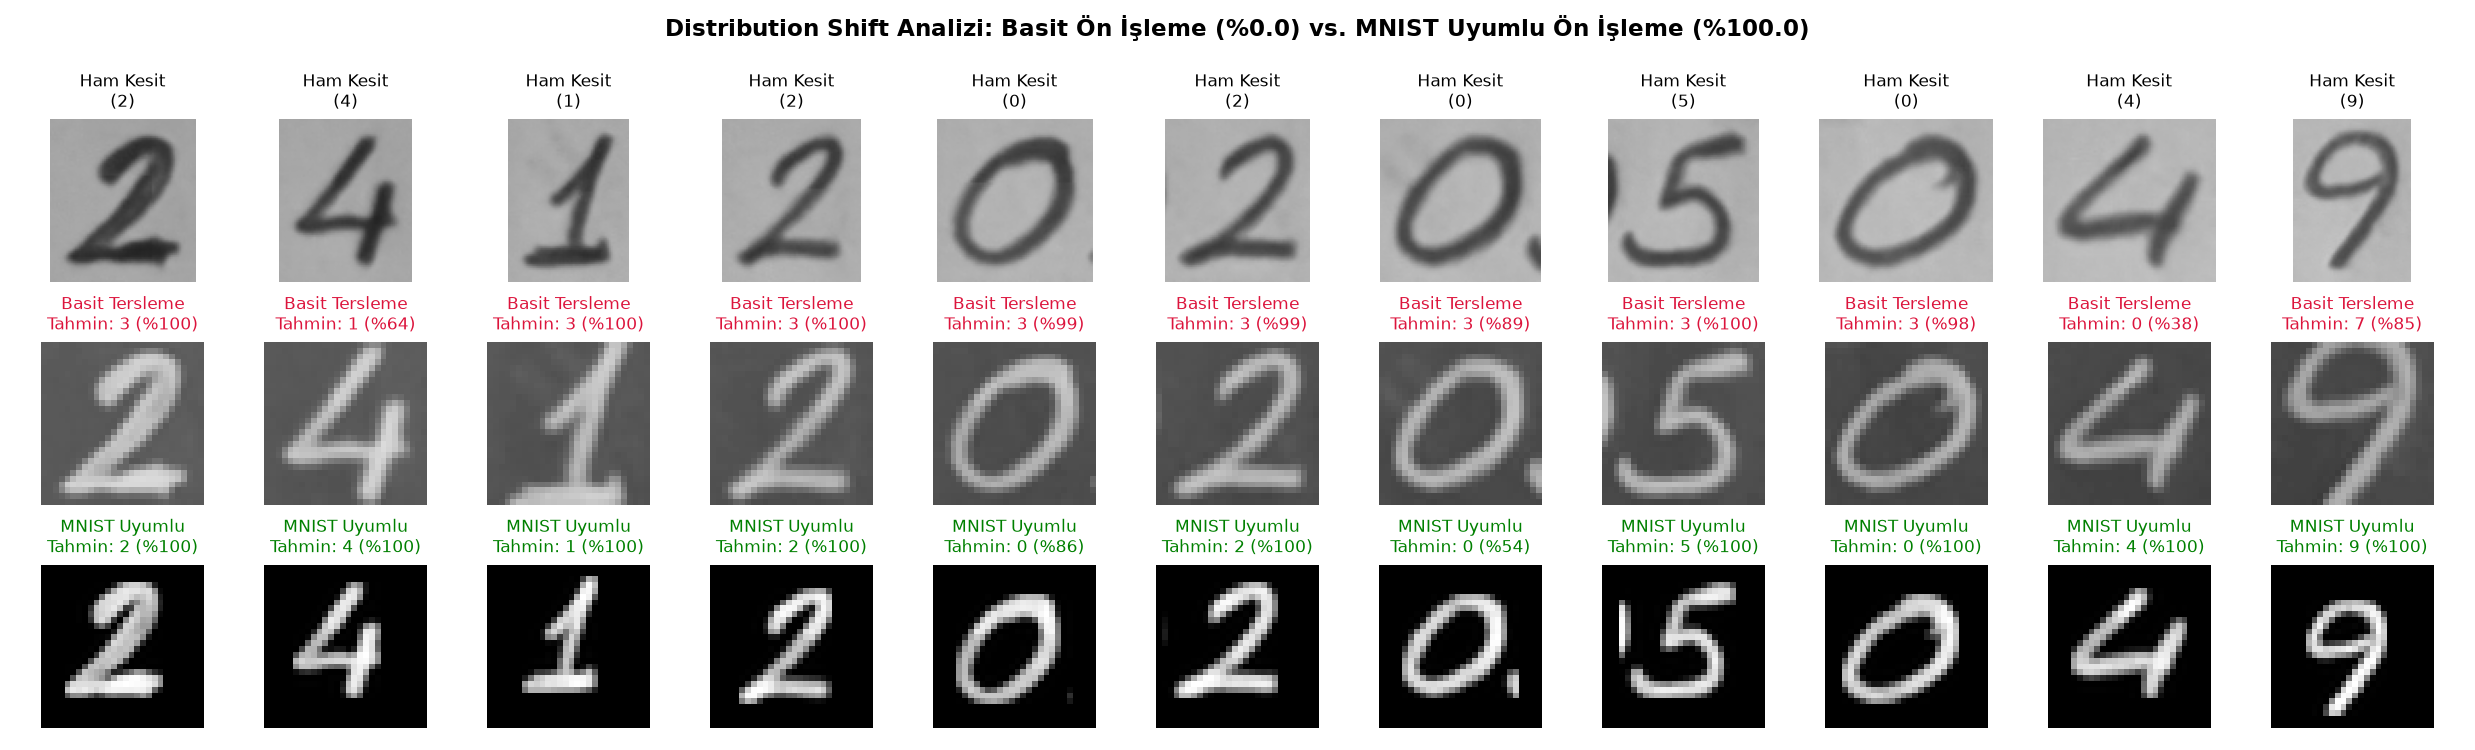
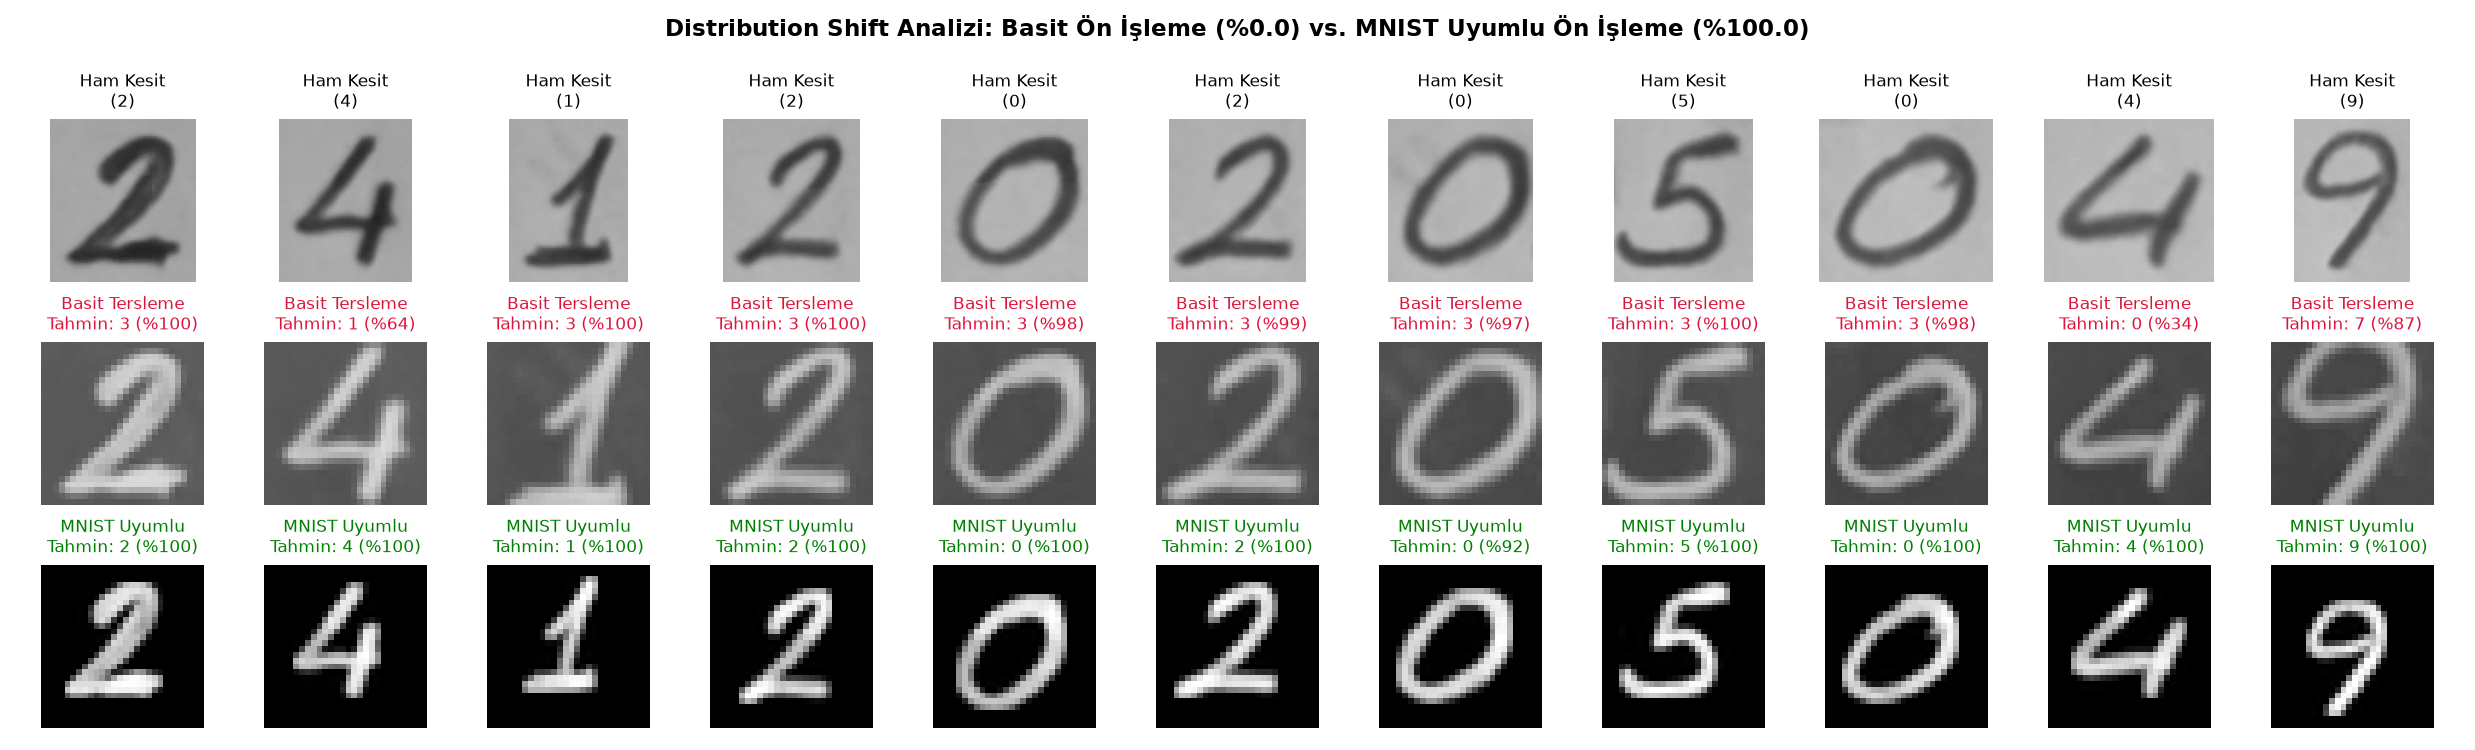
Complete MNIST MLP experiments, student number evaluation, and report

diff --git a/README.md b/README.md
@@ -1,39 +1,174 @@
-# pytorch-mnist-mlp
+# MNIST Veri Seti ile MLP Tabanlı El Yazısı Rakam Tanıma
 
-Bu proje, **CNN kullanmadan** PyTorch ile MNIST üzerinde sıfırdan eğitilen bir **MLP** çözümüdür.
-Ödev gereksinimlerine uygun olarak train/validation/test ayrımı, epoch bazlı metrik takibi, grafik üretimi, hiperparametre karşılaştırması ve kendi el yazısı görselleri ile tahmin akışı içerir.
+Bu proje, **CNN (Evrişimli Sinir Ağı) veya hazır eğitilmiş (pretrained) model kullanmadan**, yalnızca **Multi-Layer Perceptron (MLP)** mimarisiyle PyTorch kullanılarak MNIST veri seti üzerinde sıfırdan eğitilen el yazısı rakam tanıma sistemini, hiperparametre karşılaştırma deneylerini ve gerçek el yazısı öğrenci numarası (`24120205049`) üzerindeki değerlendirme sonuçlarını içerir.
 
-## 1) Kurulum
+---
+
+## 1. Veri Seti ve Veri Bölme (Train / Validation / Test Ayrımı)
+
+Deneylerde standart **MNIST** el yazısı rakam veri seti kullanılmıştır (`28 × 28` piksel, tek kanallı gri seviyeli, `0–9` arası 10 sınıf).
+
+* **Eğitim (Train) Kümesi:** `54.000` görüntü (`train=True` kümesinin `%90`'ı, `seed=42` ile sabitlenmiş rastgele ayrım)
+* **Doğrulama (Validation) Kümesi:** `6.000` görüntü (`train=True` kümesinin `%10`'u, `val_split=0.1`)
+* **Test Kümesi:** `10.000` görüntü (`train=False` resmi MNIST test ayrımı)
+* **Normalizasyon:** Tüm görüntüler `[0, 1]` aralığına ölçeklendikten sonra MNIST istatistikleri olan `mean = 0.1307`, `std = 0.3081` ile normalize edilmiştir.
+* **Veri Sızıntısının Önlenmesi:** Test veri kümesi eğitim veya hiperparametre seçimi aşamalarında kesinlikle kullanılmamış; yalnızca eğitim tamamlandıktan sonra nihai performansı ölçmek için değerlendirilmiştir (`mnist_mlp/data.py` ve `mnist_mlp/train.py`).
+
+---
+
+## 2. Deney 1 – Temel MLP Modeli (`adam_baseline`)
+
+### 2.1. Mimari ve Hiperparametre Yapılandırması
+
+Temel model (`mnist_mlp/model.py` içindeki `MLPClassifier`), `28 × 28 = 784` boyutlu düzleştirilmiş (flattened) piksel vektörünü girdi olarak alır ve en az 2 gizli katman şartını sağlayacak şekilde aşağıdaki mimariye sahiptir:
+
+```text
+Girdi (28×28 -> Flatten: 784)
+  ├─► Linear(784 -> 256) + ReLU   [1. Gizli Katman]
+  ├─► Linear(256 -> 128) + ReLU   [2. Gizli Katman]
+  └─► Linear(128 -> 10)           [Çıkış Katmanı (Logits)]
+```
+
+| Hiperparametre | Değer |
+| :--- | :--- |
+| **Girdi Boyutu** | `784` (`28 × 28` gri seviye) |
+| **Gizli Katmanlar (`hidden_sizes`)** | `[256, 128]` (2 gizli katman) |
+| **Aktivasyon Fonksiyonu** | `ReLU` |
+| **Kayıp (Loss) Fonksiyonu** | `CrossEntropyLoss` |
+| **Optimizer** | `Adam` |
+| **Öğrenme Oranı (`lr`)** | `0.001` (`1e-3`) |
+| **Batch Size** | `128` |
+| **Epoch Sayısı** | `5` |
+| **Validation Oranı (`val_split`)** | `0.10` (`54.000` Train / `6.000` Val / `10.000` Test) |
+| **Rastgelelik Tohumu (`seed`)** | `42` |
+
+### 2.2. Epoch Bazlı Eğitim ve Doğrulama Sonuçları
+
+| Epoch | Training Loss | Validation Loss | Training Accuracy | Validation Accuracy |
+| :---: | :---: | :---: | :---: | :---: |
+| **1** | `0.2900` | `0.1473` | `%91.42` | `%95.57` |
+| **2** | `0.1113` | `0.1151` | `%96.57` | `%96.60` |
+| **3** | `0.0754` | `0.1033` | `%97.66` | `%97.20` |
+| **4** | `0.0537` | `0.0837` | `%98.31` | `%97.30` |
+| **5** | **`0.0410`** | **`0.0917`** | **`%98.64`** | **`%97.45`** |
+
+* **Nihai Test Loss:** `0.0793`
+* **Nihai Test Accuracy:** **`%97.57`**
+* **Toplam Eğitim Süresi:** `17.22 saniye` (CPU)
+
+### 2.3. Eğitim Süreci Kayıp (Loss) ve Doğruluk (Accuracy) Grafikleri
+
+| Kayıp (Loss) Grafiği | Doğruluk (Accuracy) Grafiği |
+| :---: | :---: |
+| ![Temel Model Loss Grafiği](outputs/experiments/adam_baseline/loss_curve.png) | ![Temel Model Accuracy Grafiği](outputs/experiments/adam_baseline/accuracy_curve.png) |
+
+**Loss ve Accuracy Yorumu:**
+* İlk epoch'ta `Train Loss` (`0.2900`), epoch boyunca ağırlıklar henüz yakınsarken ölçüldüğü için epoch sonunda değerlendirilen `Validation Loss` (`0.1473`) değerinden daha yüksektir.
+* 2. epoch'tan itibaren model hızla yakınsamış; 5. epoch sonunda eğitim doğruluğu `%98.64`, doğrulama doğruluğu `%97.45` ve test doğruluğu **`%97.57`** seviyesine ulaşmıştır.
+* 4. ve 5. epoch arasında `Train Loss` düşmeye devam ederken (`0.0537 -> 0.0410`), `Validation Loss` değerinin `0.0837` civarında doyuma ulaşması, modelin 5 epoch sonunda yeterli kapasiteye ulaştığını ve daha uzun eğitimlerde hafif aşırı öğrenme (overfitting) eğiliminin başlayabileceğini göstermektedir.
+
+---
+
+## 3. Deney 2 – Model Yapılandırmalarının ve Hiperparametrelerin Karşılaştırılması
+
+Optimizer seçimi (`Adam` vs. `SGD`), gizli katman sayısı (`2` vs. `3` katman) ve gizli katman genişliklerinin (`[128, 64]`, `[256, 128]`, `[512, 256]`) model performansı ve eğitim süresi üzerindeki etkisini analiz etmek amacıyla 5 farklı MLP yapılandırması aynı veri ayrımı (`seed=42`, `epochs=5`, `batch_size=128`) ile sıfırdan eğitilmiştir:
+
+| Deney Adı | Gizli Katmanlar | Optimizer | LR | Train Loss | Val Loss | Train Acc | Val Acc | Test Loss | Test Acc | Süre (sn) |
+| :--- | :--- | :---: | :---: | :---: | :---: | :---: | :---: | :---: | :---: | :---: |
+| **`adam_baseline`** | `[256, 128]` | Adam | `0.001` | `0.0410` | **`0.0917`** | `%98.64` | `%97.45` | **`0.0793`** | **`%97.57`** | `17.22` |
+| **`adam_deeper_3layers`** | `[512, 256, 128]` | Adam | `0.001` | **`0.0367`** | `0.1012` | **`%98.74`** | **`%97.47`** | `0.0860` | `%97.41` | `18.54` |
+| **`adam_compact`** | `[128, 64]` | Adam | `0.001` | `0.0594` | `0.1072` | `%98.17` | `%96.98` | `0.1025` | `%97.10` | **`14.71`** |
+| **`sgd_baseline_arch`** | `[256, 128]` | SGD | `0.050` | `0.1065` | `0.1285` | `%96.91` | `%96.12` | `0.1103` | `%96.53` | `15.37` |
+| **`sgd_wider`** | `[512, 256]` | SGD | `0.050` | `0.0974` | `0.1189` | `%97.18` | `%96.37` | `0.1022` | `%96.73` | `18.64` |
+
+![Deneyler Arası Karşılaştırma Grafiği](outputs/experiments/comparison_curves.png)
+
+### Hiperparametre Analizi
+
+1. **Optimizer Etkisi (`Adam` vs. `SGD`):**
+   * Aynı `[256, 128]` mimarisinde `Adam (lr=0.001)` `%97.57` test doğruluğuna ulaşırken, `SGD (lr=0.05)` 5 epoch sonunda `%96.53` doğrulukta kalmıştır. Parametre başına uyarlanabilir (adaptive) öğrenme oranı ve momentum kullanan Adam, sabit adımlı SGD'ye kıyasla çok daha hızlı yakınsamaktadır.
+2. **Gizli Katman Genişliği (Kapasite) Etkisi (`[128, 64]` vs. `[256, 128]` vs. `[512, 256]`):**
+   * Katman genişliği `[128, 64]`'e düşürüldüğünde (`adam_compact`), eğitim süresi `14.71` saniyeye inmiş ancak temsil kapasitesi azaldığı için test doğruluğu `%97.57`'den `%97.10`'a gerilemiştir.
+   * SGD tarafında katmanları `[256, 128]`'den `[512, 256]`'ya genişletmek (`sgd_wider`) test doğruluğunu `%96.53`'ten `%96.73`'e yükseltmiştir.
+3. **Derinlik Etkisi (2 Gizli Katman vs. 3 Gizli Katman):**
+   * 3 gizli katmanlı `[512, 256, 128]` modeli (`adam_deeper_3layers`) en düşük eğitim kaybını (`0.0367`) ve en yüksek eğitim doğruluğunu (`%98.74`) elde etmesine rağmen, test doğruluğunda (`%97.41`) 2 gizli katmanlı `[256, 128]` modelinin (`%97.57`) hafif gerisinde kalmıştır. Bu durum, düzleştirilmiş 784 piksellik MNIST girdisi için `[256, 128]` kapasitesinin ideal genelleme dengesini kurduğunu göstermektedir.
+
+---
+
+## 4. Kendi El Yazısı Öğrenci Numarası (`24120205049`) ile Test ve Değerlendirme
+
+### 4.1. Orijinal El Yazısı Görseli
+
+Öğrenci numarası olan **`24120205049`** (11 hane), kağıt üzerine el yazısıyla yazılarak fotoğraflanmış ve `data/handwritten_digits/number.png` olarak kaydedilmiştir:
+
+![El Yazısı Öğrenci Numarası (24120205049)](data/handwritten_digits/number.png)
+
+### 4.2. Görüntülerin MNIST Formatına Hazırlanması (`mnist_mlp/handwriting.py`)
+
+Gerçek kamera görüntüsünü MNIST formatına (`28 × 28`, siyah zemin üzerine beyaz ve ortalanmış rakam) uyumlu hale getirmek için `mnist_mlp/handwriting.py` içerisinde aşağıdaki adımlar uygulanmıştır:
+
+1. **Bölümlendirme (Segmentation):** Fotoğraftaki 11 rakam soldan sağa doğru bağlı bileşen projeksiyonu ve komşu rakam orta-nokta sınırlaması ile ayrı ayrı kesitlere ayrılmıştır.
+2. **Gri Tonlama ve Arka Plan Bastırma:** Görüntüler tek kanallı gri seviyeye (`L`) dönüştürülmüştür. Kağıt rengi (`~168/255`) ve arka sayfadaki hafif yazı izlerini temizlemek için 75. yüzdelik dilim (percentile) tabanlı arka plan eşikleme uygulanarak kağıt zemini tam siyaha (`0`), mürekkep darbeleri ise parlak beyaza (`0–255`) dönüştürülmüştür.
+3. **Oran Koruyarak Boyutlandırma ve Kütle Merkezi Hizalaması (`28 × 28`):** Resmi MNIST veri seti oluşturma protokolüne birebir uygun olarak her rakamın sıkı sınırlayıcı kutusu (bounding box) bulunmuş, en-boy oranı korunarak `20 × 20` piksel kutuya sığdırılmış ve **kütle merkezi (center of mass)** `(13.5, 13.5)` koordinatına gelecek şekilde `28 × 28` siyah tuvale yerleştirilmiştir. Hazırlanan tüm `28 × 28` görüntüler `data/handwritten_digits/digits_28x28/` klasörüne kaydedilmiştir.
+4. **Normalizasyon:** `ToTensor()` sonrasında MNIST eğitim dağılımıyla aynı `mean=0.1307`, `std=0.3081` normalizasyonu uygulanmıştır.
+
+### 4.3. Öğrenci Numarası (`24120205049`) Tahmin Sonuçları
+
+Eğitilen temel MLP modeli (`adam_baseline`), hazırlanan 11 el yazısı rakamın **tamamını (`11/11`, `%100.0` doğruluk)** yüksek güven skorlarıyla doğru tahmin etmiştir:
+
+![Öğrenci Numarası Tahmin Sonuçları](outputs/handwriting/student_number_predictions.png)
+
+| Hane Sırası | 28×28 MNIST Görseli | Gerçek Rakam | Model Tahmini | Güven Skoru (Softmax) | Sonuç |
+| :---: | :---: | :---: | :---: | :---: | :---: |
+| **1** | ![2](data/handwritten_digits/digits_28x28/digit_01_2.png) | `2` | **`2`** | `%99.91` | Doğru |
+| **2** | ![4](data/handwritten_digits/digits_28x28/digit_02_4.png) | `4` | **`4`** | `%99.90` | Doğru |
+| **3** | ![1](data/handwritten_digits/digits_28x28/digit_03_1.png) | `1` | **`1`** | `%99.75` | Doğru |
+| **4** | ![2](data/handwritten_digits/digits_28x28/digit_04_2.png) | `2` | **`2`** | `%99.99` | Doğru |
+| **5** | ![0](data/handwritten_digits/digits_28x28/digit_05_0.png) | `0` | **`0`** | `%99.99` | Doğru |
+| **6** | ![2](data/handwritten_digits/digits_28x28/digit_06_2.png) | `2` | **`2`** | `%100.00` | Doğru |
+| **7** | ![0](data/handwritten_digits/digits_28x28/digit_07_0.png) | `0` | **`0`** | `%91.66` | Doğru |
+| **8** | ![5](data/handwritten_digits/digits_28x28/digit_08_5.png) | `5` | **`5`** | `%100.00` | Doğru |
+| **9** | ![0](data/handwritten_digits/digits_28x28/digit_09_0.png) | `0` | **`0`** | `%99.82` | Doğru |
+| **10** | ![4](data/handwritten_digits/digits_28x28/digit_10_4.png) | `4` | **`4`** | `%99.52` | Doğru |
+| **11** | ![9](data/handwritten_digits/digits_28x28/digit_11_9.png) | `9` | **`9`** | `%99.98` | Doğru |
+
+* **Beklenen Öğrenci Numarası:** `24120205049`
+* **Modelin Tahmin Ettiği Numara:** `24120205049`
+* **El Yazısı Öğrenci Numarası Doğruluğu:** **`11 / 11 (%100.0)`**
+
+---
+
+## 5. Genel Değerlendirme ve Distribution Shift (Dağılım Kayması) Analizi
+
+Bu ödevde eğitim verisi (MNIST) ile gerçek dünya verisi (cep telefonu kamerasıyla çekilen kağıt üzerindeki el yazısı) arasındaki **dağılım kayması (distribution shift)** doğrudan deneysel olarak gözlemlenmiştir:
+
+![Distribution Shift Karşılaştırması](outputs/handwriting/preprocessing_comparison.png)
+
+1. **Neden Ham Kamera Görüntülerinde Dağılım Kayması Oluşur?**
+   * **Arka Plan Farkı:** MNIST veri setinde arka plan pikselleri tam siyahtır (`0.0`). Oysa gerçek kağıt fotoğrafında kağıt yüzeyi gri tonlardadır (`~168/255`) ve arka sayfadaki baskı izleri görünmektedir. Görüntüye yalnızca basit renk tersleme (`255 - x`) uygulandığında arka plan `0` yerine `~87/255` değerinde parlak bir gürültü olarak kalır.
+   * **Uzamsal Duyarlılık (MLP Mimarisi):** CNN'lerden farklı olarak MLP mimarisi görüntüyü `784` elemanlı sabit bir vektöre düzleştirir (`Flatten`). İlk gizli katmandaki `Linear(784, 256)` ağırlıkları, eğitim sırasında kenar piksellerinin her zaman `0` (arka plan) olmasına ve rakamın kütle merkezinin `(13.5, 13.5)` noktasında bulunmasına şartlanmıştır.
+2. **Deneysel Kanıt (Basit Ön İşleme vs. MNIST Uyumlu Ön İşleme):**
+   * Arka plan bastırma ve kütle merkezi hizalaması yapılmadan yalnızca `28 × 28` boyutlandırma + basit renk tersleme uygulandığında (`Basit Tersleme` satırı), arka plandaki gri pikseller tüm nöronları sürekli aktive ederek modelin neredeyse tüm rakamları `3` olarak tahmin etmesine (`31333333307`, **`0/11 — %0.0` doğruluk**) yol açmıştır.
+   * Görüntüler arka plan eşikleme, `20 × 20` oran korumalı ölçekleme, `28 × 28` kütle merkezi ortalama ve MNIST normalizasyonu ile eğitim dağılımına hizalandığında (`MNIST Uyumlu` satırı), aynı MLP modelinin doğruluğu **`%0.0`'dan `%100.0`'a (`11/11`)** yükselmiştir.
+   * Bu sonuç, gerçek dünya verilerini bir derin öğrenme modeline uygularken **veri ön işleme (preprocessing) ve dağılım hizalamasının** en az model mimarisi kadar kritik olduğunu açıkça ortaya koymaktadır.
+
+---
+
+## 6. Kurulum ve Çalıştırma
+
+### 6.1. Ortam Kurulumu
 
 ```bash
 python -m venv .venv
+# Windows PowerShell:
+.\.venv\Scripts\Activate.ps1
+# Linux / macOS:
 source .venv/bin/activate
+
 pip install -r requirements.txt
 ```
 
-## 2) Reproducibility ve cihaz seçimi
-
-- Tohum (seed) parametresi varsayılan `42` olup `--seed` ile değiştirilebilir.
-- Cihaz seçimi otomatik yapılır: CUDA varsa `cuda`, yoksa `cpu`.
-
-## 3) Mimari
-
-- Model: `mnist_mlp.model.MLPClassifier`
-- Girdi: `28x28` görüntü (flatten: 784)
-- Hidden katmanlar: varsayılan `[256, 128]` (**en az iki hidden layer**)
-- Aktivasyon: `ReLU`
-- Çıkış: `10` sınıf (`0..9`)
-
-## 4) Veri bölme yöntemi
-
-- `train=True` MNIST seti train+validation için kullanılır.
-- Varsayılan `val_split=0.1` ile train/validation ayrımı yapılır.
-- `train=False` MNIST seti yalnızca test için kullanılır.
-- Test verisi eğitim/hiperparametre geliştirme sürecine dahil edilmez.
-
-## 5) Eğitim (sıfırdan)
-
-> Hazır eğitilmiş model kullanılmaz. Her çalıştırma sıfırdan eğitir.
+### 6.2. Temel MLP Modelini Sıfırdan Eğitme
 
 ```bash
 python -m mnist_mlp.train \
@@ -49,68 +184,33 @@ python -m mnist_mlp.train \
   --save-checkpoint
 ```
 
-### Eğitim çıktıları
-
-`outputs/run/` altında:
-- `training_summary.json`
-  - epoch bazlı `train_loss`, `train_accuracy`, `val_loss`, `val_accuracy`
-  - `training_time_seconds`
-  - `test_accuracy` ve `test_loss`
-- `loss_curve.png`
-- `accuracy_curve.png`
-- (opsiyonel) `checkpoint.pt`
-
-Not: `checkpoint.pt`, bu çalıştırmada sıfırdan eğitilen modelin ağırlıklarıdır; önceden eğitilmiş model değildir.
-
-## 6) Hiperparametre / yapılandırma karşılaştırması
-
-Varsayılan 2 deney:
-- `adam_baseline`
-- `sgd_wider`
-
-Çalıştırma:
+### 6.3. Hiperparametre Karşılaştırma Deneylerini Çalıştırma
 
 ```bash
-python -m mnist_mlp.experiments --epochs 3 --experiments-output-dir ./outputs/experiments
+python -m mnist_mlp.experiments \
+  --epochs 5 \
+  --save-checkpoint \
+  --experiments-output-dir ./outputs/experiments
 ```
 
-Sonuçlar:
-- `outputs/experiments/experiment_results.json`
-- Her deney klasöründe eğitim özeti ve grafikler
-
-İsterseniz JSON dosyası ile kendi deneylerinizi verin (`--experiments-json`).
-
-## 7) Kendi el yazısı görselleri ile tahmin akışı
-
-Gerçek kişiye ait örnek görseller bu repoya eklenmemiştir. Bunun yerine şablon klasör sağlanmıştır:
-
-- `data/handwritten_digits/README.md`
-
-Ön işleme akışı:
-- gri tonlama (`L`)
-- 28x28 yeniden boyutlandırma
-- MNIST'e uyumlu şekilde gerekirse renk tersleme (açık zemin/koyu rakam)
-- MNIST normalizasyonu (`mean=0.1307`, `std=0.3081`)
-
-Tahmin komutu:
+### 6.4. El Yazısı Öğrenci Numarasını (`24120205049`) Değerlendirme
 
 ```bash
+# Çok haneli öğrenci numarası fotoğrafını bölümlendirip 28x28 MNIST formatına dönüştürerek tahmin etme:
 python -m mnist_mlp.handwriting \
-  --checkpoint outputs/run/checkpoint.pt \
-  data/handwritten_digits/0.png data/handwritten_digits/1.png
+  --checkpoint ./outputs/experiments/adam_baseline/checkpoint.pt \
+  --student-number-image ./data/handwritten_digits/number.png \
+  --expected-number 24120205049 \
+  --output-dir ./outputs/handwriting
+
+# Tekil 28x28 rakam görselleri üzerinde tahmin yapma:
+python -m mnist_mlp.handwriting \
+  --checkpoint ./outputs/experiments/adam_baseline/checkpoint.pt \
+  data/handwritten_digits/digits_28x28/digit_01_2.png \
+  data/handwritten_digits/digits_28x28/digit_02_4.png
 ```
 
-## 8) Distribution shift yorumu
-
-MNIST temiz, ortalanmış ve standartlaştırılmış bir veri dağılımına sahiptir. Gerçek dünyadaki el yazısı görselleri ise kalem kalınlığı, eğiklik, arka plan gürültüsü ve kadraj açısından farklılaşır. Bu nedenle kendi el yazısı testlerinde düşüş beklenebilir; bu fark, train dağılımı ile gerçek dünya dağılımı arasındaki **distribution shift** göstergesidir.
-
-## 9) Testler
-
-Aşağıdaki kontroller otomatik test edilir:
-- Modelin MLP yapısı (en az iki hidden layer + ReLU)
-- Çıkış boyutu `10`
-- El yazısı ön işleme çıktısının MNIST uyumlu tensor üretmesi
-- Eğitim geçmişinin her epoch için train/validation metrikleri üretmesi
+### 6.5. Otomatik Testleri Çalıştırma
 
 ```bash
 pytest -q
